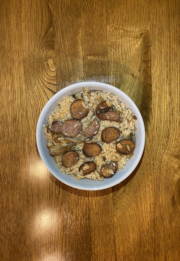
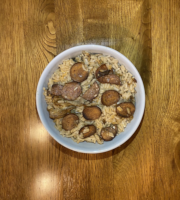
Update images for cellphone

diff --git a/_layouts/default.html b/_layouts/default.html
@@ -41,6 +41,16 @@
   <link rel="preload" as="image" href="/assets/img/almondegas-180px.webp">
   <link rel="preload" as="image" href="/assets/img/soja-alentejana-180px.webp">
   <link rel="preload" as="image" href="/assets/img/carbonara-tempeh-180px.webp">
+  <link rel="preload" as="image" href="/assets/img/bowl-quinoa-180px.webp">
+  <link rel="preload" as="image" href="/assets/img/yakisoba-180px.webp">
+
+
+  <link rel="preload" as="image" href="/assets/img/salada-sem-polvo-126px.webp">
+  <link rel="preload" as="image" href="/assets/img/bolo-chocolate-126px.webp">
+  <link rel="preload" as="image" href="/assets/img/francesinha-126px.webp">
+  <link rel="preload" as="image" href="/assets/img/almondegas-126px.webp">
+  <link rel="preload" as="image" href="/assets/img/soja-alentejana-126px.webp">
+  <link rel="preload" as="image" href="/assets/img/carbonara-tempeh-126px.webp">
 
 
   <link rel="preload" href="/assets/js/version.js" as="script">

diff --git a/index.html b/index.html
@@ -95,7 +95,11 @@ permalink: /
     </div>
     <div class="card__img-container">
       <!-- Optionally handle initial lazy-loading logic as you wish -->
-      <img src="{{ post.image | replace: '.webp', '-180px.webp' }}" class="card__img" alt="{{ post.title }}" loading="auto">
+      <picture>
+        <source srcset="{{ post.image | replace: '.webp', '-126px.webp' }}" media="(max-width: 768px)">
+        <source srcset="{{ post.image | replace: '.webp', '-180px.webp' }}" media="(max-width: 1500px)">
+        <img src="{{ post.image }}" class="card__img" alt="{{ post.title }}" loading="auto">
+      </picture>
     </div>
     <div class="card__footer">
       <span class="title-card">{{ post.title | upcase }}</span>

diff --git a/assets/css/_sass/index.scss b/assets/css/_sass/index.scss
@@ -562,7 +562,7 @@ display: none;
 }
 
 .card__img {
-  width: 128px !important; /* Reduced width */
+  width: 126px !important; /* Reduced width */
   height: 140px !important; /* Reduced height */
   margin-top: 5px; /* Reduced margin */
 }
